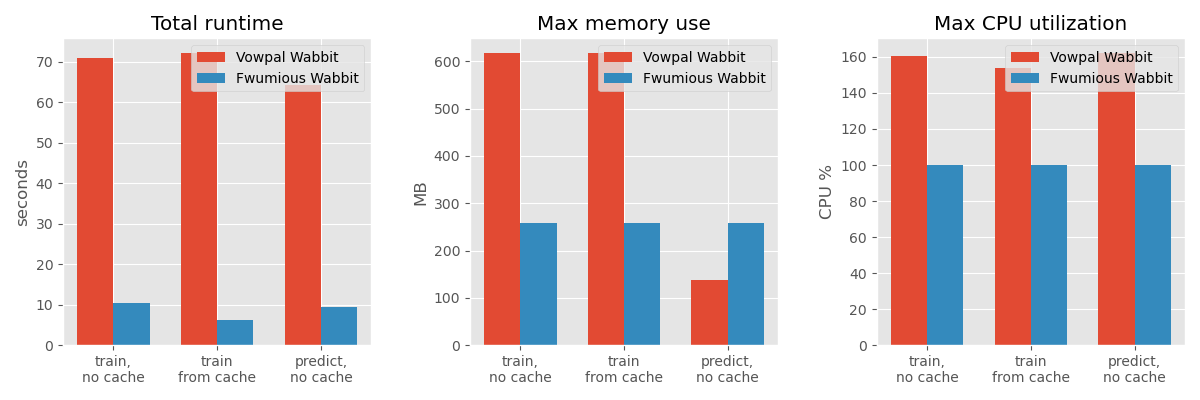
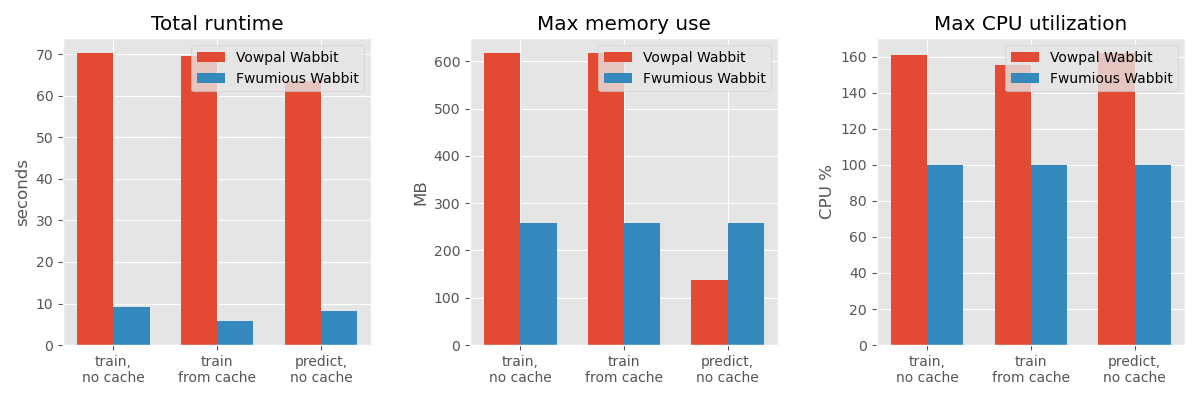
benchmark - moved CPU information to CPU section

diff --git a/benchmark/benchmark.py b/benchmark/benchmark.py
@@ -49,6 +49,8 @@ def fw_clean_cache():
 
 
 def get_system_info():
+    uname = platform.uname()
+
     l = []
     l.append("### CPU Info")
     l.append("```")
@@ -58,15 +60,15 @@ def get_system_info():
     # CPU frequencies
     cpufreq = psutil.cpu_freq()
     l.append(f"Current Frequency: {cpufreq.current:.2f}Mhz")
+    l.append(f"Machine: {uname.machine}")
+    l.append(f"Processor: {uname.processor}")
     l.append("```")
 
-    l.append("### System Information")
-    uname = platform.uname()
+    l.append("### Operating System")
     l.append("```")
     l.append(f"System: {uname.system}")
     l.append(f"Version: {uname.version}")
-    l.append(f"Machine: {uname.machine}")
-    l.append(f"Processor: {uname.processor}")
+
     l.append("```")
     return "\n".join(l)
 

diff --git a/BENCHMARK.md b/BENCHMARK.md
@@ -14,12 +14,12 @@ here are the results for 3 runs for each scenario, taking mean values:
 ![benchmark results](benchmark_results.png)
 Scenario|Runtime (seconds)|Memory (MB)|CPU %
 ----|----:|----:|----:
-vw train, no cache|70.87 | 618 | 160.27
-fw train, no cache|10.35 | 257 | 99.93
-vw train, using cache|72.21 | 618 | 153.70
-fw train, using cache|6.16 | 258 | 99.73
-vw predict, no cache|64.39 | 138 | 162.23
-fw predict, no cache|9.32 | 258 | 99.90
+vw train, no cache|70.33 | 618 | 160.83
+fw train, no cache|9.27 | 258 | 100.00
+vw train, using cache|69.58 | 618 | 155.13
+fw train, using cache|5.77 | 258 | 99.67
+vw predict, no cache|63.58 | 138 | 162.00
+fw predict, no cache|8.28 | 258 | 100.00
 
 ### Model equivalence
 loss values for the test set:
@@ -80,7 +80,7 @@ or, if you just want the numbers with less dependencies run:
 ```
 benchmarked versions:
 vowpal wabbit 8.8.1 (git commit: 5ff219e)
-fwumious wabbit 1.0 (git commit: 2da506a)
+fwumious wabbit 1.0 (git commit: 8bda30c)
 ```
 
 ### CPU Info
@@ -88,11 +88,11 @@ fwumious wabbit 1.0 (git commit: 2da506a)
 Physical cores: 4
 Total cores: 8
 Current Frequency: 2900.00Mhz
+Machine: x86_64
+Processor: i386
 ```
-### System Information
+### Operating System
 ```
 System: Darwin
 Version: Darwin Kernel Version 19.6.0: Mon Aug 31 22:12:52 PDT 2020; root:xnu-6153.141.2~1/RELEASE_X86_64
-Machine: x86_64
-Processor: i386
 ```
